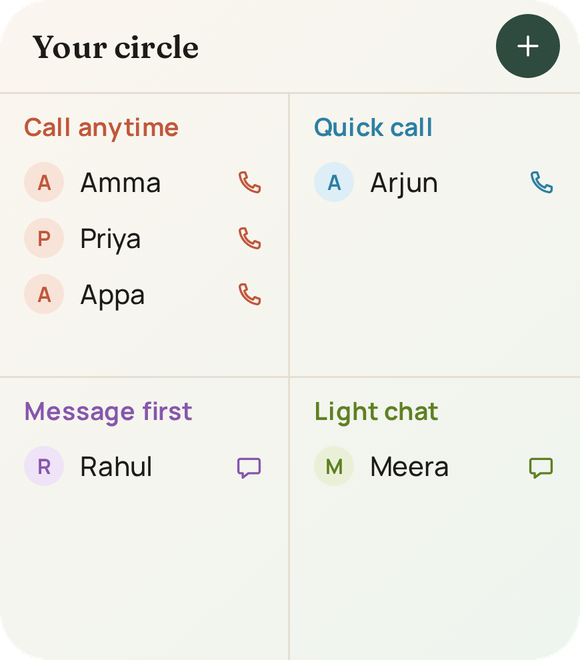
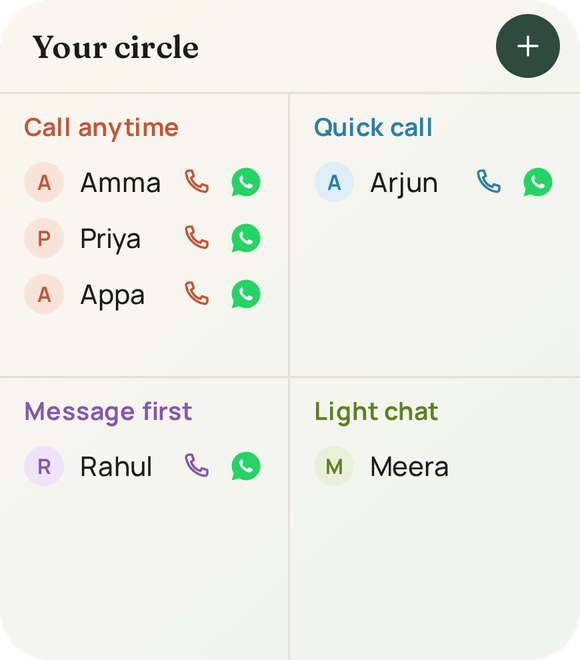
Call and WhatsApp buttons on the People circle widget
Each person with a phone number gets a call button and a WhatsApp
button (with the quadrant's opener pre-filled); tapping the name still
does the quadrant's usual action. Version 1.3.1.

Claude-Session: https://claude.ai/code/session_01CENd8nuutsrKrGoWrWpfjh

diff --git a/src/widgets/widgets.tsx b/src/widgets/widgets.tsx
@@ -13,7 +13,7 @@ import { CIRCLE } from '@/lib/circle';
 import { MOODS } from '@/lib/moods';
 import { QUADRANTS } from '@/lib/quadrants';
 import type { Snapshot } from '@/widgets/data';
-import { budSvg, doneSvg, flowerSvg, iconSvg, orbSvg, tickSvg } from '@/widgets/svg';
+import { budSvg, doneSvg, flowerSvg, iconSvg, orbSvg, tickSvg, whatsappSvg } from '@/widgets/svg';
 
 // ── Palette ──────────────────────────────────────────────────────────────────
 
@@ -610,6 +610,7 @@ export function CircleWidget({ s, p, width, height, scale = 1, checkbox = true }
   const titleH = Math.round(18 * k) + 4;
   const lineH = Math.round(28 * k);
   const dot = Math.round(20 * k);
+  const icon = Math.round(16 * k);
 
   return (
     <Grid
@@ -634,21 +635,29 @@ export function CircleWidget({ s, p, width, height, scale = 1, checkbox = true }
               <Empty text="No one yet" p={p} k={k} uri={LINK.circle} />
             ) : (
               people.slice(0, show).map((x) => (
-                <FlexWidget
-                  key={x.id}
-                  {...open(x.uri)}
-                  accessibilityLabel={`${info.mode === 'call' ? 'Call' : 'Message'} ${x.name}`}
-                  style={{ flexDirection: 'row', alignItems: 'center', height: lineH, width: 'match_parent' }}
-                >
-                  <FlexWidget style={{ height: dot, width: dot, borderRadius: dot / 2, backgroundColor: soft, alignItems: 'center', justifyContent: 'center' }}>
-                    <TextWidget text={x.name.slice(0, 1).toUpperCase()} style={{ fontSize: 10.5 * k, fontFamily: BOLD, color }} />
+                <FlexWidget key={x.id} style={{ flexDirection: 'row', alignItems: 'center', height: lineH, width: 'match_parent' }}>
+                  <FlexWidget
+                    {...open(x.uri)}
+                    accessibilityLabel={`${info.mode === 'call' ? 'Call' : 'Message'} ${x.name}`}
+                    style={{ flex: 1, flexDirection: 'row', alignItems: 'center', height: 'match_parent' }}
+                  >
+                    <FlexWidget style={{ height: dot, width: dot, borderRadius: dot / 2, backgroundColor: soft, alignItems: 'center', justifyContent: 'center' }}>
+                      <TextWidget text={x.name.slice(0, 1).toUpperCase()} style={{ fontSize: 10.5 * k, fontFamily: BOLD, color }} />
+                    </FlexWidget>
+                    <Spacer size={8} />
+                    <FlexWidget style={{ flex: 1 }}>
+                      <TextWidget text={x.name} style={{ fontSize: 13.5 * k, fontFamily: BODY, color: p.ink }} maxLines={1} truncate="END" />
+                    </FlexWidget>
                   </FlexWidget>
-                  <Spacer size={8} />
-                  <FlexWidget style={{ flex: 1 }}>
-                    <TextWidget text={x.name} style={{ fontSize: 13.5 * k, fontFamily: BODY, color: p.ink }} maxLines={1} truncate="END" />
-                  </FlexWidget>
-                  {checkbox && (
-                    <SvgWidget svg={iconSvg(info.mode === 'call' ? 'phone' : 'chat', color, Math.round(15 * k))} style={{ height: Math.round(15 * k), width: Math.round(15 * k), marginLeft: 6 }} />
+                  {checkbox && x.tel && (
+                    <FlexWidget {...open(x.tel)} accessibilityLabel={`Call ${x.name}`} style={{ paddingHorizontal: 4, height: 'match_parent', justifyContent: 'center' }}>
+                      <SvgWidget svg={iconSvg('phone', color, icon)} style={{ height: icon, width: icon }} />
+                    </FlexWidget>
+                  )}
+                  {checkbox && x.whatsapp && (
+                    <FlexWidget {...open(x.whatsapp)} accessibilityLabel={`WhatsApp ${x.name}`} style={{ paddingLeft: 4, height: 'match_parent', justifyContent: 'center' }}>
+                      <SvgWidget svg={whatsappSvg(icon + 2)} style={{ height: icon + 2, width: icon + 2 }} />
+                    </FlexWidget>
                   )}
                 </FlexWidget>
               ))

diff --git a/src/widgets/catalogue.tsx b/src/widgets/catalogue.tsx
@@ -37,7 +37,7 @@ export type WidgetSpec = {
 
 export const WIDGETS: readonly WidgetSpec[] = [
   { name: 'Matrix', title: 'Eisenhower Matrix', blurb: 'All four quadrants and their tasks. Tick tasks off right on the home screen.', width: 320, height: 330, cells: '4 × 3', render: MatrixWidget, custom: 'Matrix' },
-  { name: 'Circle', title: 'People circle', blurb: 'Your circle in four quadrants. Tap a name to call or message.', width: 320, height: 330, cells: '4 × 3', render: CircleWidget, custom: 'Circle' },
+  { name: 'Circle', title: 'People circle', blurb: 'Your circle in four quadrants. Call or WhatsApp anyone in one tap.', width: 320, height: 330, cells: '4 × 3', render: CircleWidget, custom: 'Circle' },
   { name: 'CheckIn', title: 'Mood check-in', blurb: 'Tap a mood right from your home screen. It counts as your daily check-in.', width: 320, height: 84, cells: '4 × 1', render: CheckInWidget },
   { name: 'Tasks', title: 'Focus today', blurb: 'Your most important tasks. Tick one off without opening the app.', width: 320, height: 176, cells: '4 × 2', render: TasksWidget },
   { name: 'Garden', title: 'Garden', blurb: 'Your latest flower, total blooms and the next Golden Lotus.', width: 164, height: 164, cells: '2 × 2', render: GardenWidget },

diff --git a/src/widgets/data.ts b/src/widgets/data.ts
@@ -8,6 +8,7 @@ import { dayKey, fromKey, shortDate } from '@/lib/dates';
 import { FlowerKind, flowerOf, GOLDEN_EVERY } from '@/lib/flowers';
 import { isLow, moodOf, MoodValue } from '@/lib/moods';
 import { sortOpen } from '@/lib/quadrants';
+import { cleanNumber, whatsappNumber } from '@/lib/reach';
 import type { AppState, Person, Task } from '@/lib/store';
 
 export type Snapshot = ReturnType<typeof snapshot>;
@@ -61,7 +62,13 @@ function circleCells(people: Person[]) {
     const list = people
       .filter((p) => p.quadrant === q)
       .sort((a, b) => (a.lastReachedAt ?? 0) - (b.lastReachedAt ?? 0) || a.createdAt - b.createdAt)
-      .map((p) => ({ id: p.id, name: p.name, uri: reachUri(p.phone, info.mode, info.opener) }));
+      .map((p) => ({
+        id: p.id,
+        name: p.name,
+        uri: reachUri(p.phone, info.mode, info.opener),
+        tel: p.phone ? `tel:${cleanNumber(p.phone)}` : null,
+        whatsapp: p.phone ? `https://wa.me/${whatsappNumber(p.phone)}?text=${encodeURIComponent(info.opener)}` : null,
+      }));
     return { q, mode: info.mode, people: list };
   });
 }

diff --git a/src/widgets/svg.ts b/src/widgets/svg.ts
@@ -34,6 +34,15 @@ export function orbSvg(colors: readonly [string, string], size: number, ring?: s
   );
 }
 
+/** WhatsApp-style mark: a green round speech bubble with a white handset. */
+export function whatsappSvg(size = 20): string {
+  return (
+    `<svg xmlns="http://www.w3.org/2000/svg" width="${size}" height="${size}" viewBox="0 0 24 24">` +
+    `<path d="M12 2.5a9.5 9.5 0 00-8.2 14.3L2.5 21.5l4.8-1.3A9.5 9.5 0 1012 2.5z" fill="#25D366"/>` +
+    `<path d="M8.9 7.2c.2 0 .4 0 .5.4l.7 1.7c.1.2 0 .4-.1.6l-.5.6c-.1.1-.2.3 0 .5.4.8 1 1.5 1.7 2 .5.4 1.1.7 1.6.9.2.1.4 0 .5-.1l.6-.7c.2-.2.3-.2.5-.1l1.6.8c.2.1.4.2.4.3.1.4-.1 1.2-.6 1.6-.5.5-1.4.7-2.2.5-1.4-.4-2.7-1.2-3.8-2.3-1-1-1.8-2.2-2.1-3.5-.2-.8 0-1.6.5-2.1.3-.3.5-.4.7-.4z" fill="#FFFFFF"/></svg>`
+  );
+}
+
 /** A tick circle for task rows. */
 export function tickSvg(color: string, size = 22): string {
   return `<svg xmlns="http://www.w3.org/2000/svg" width="${size}" height="${size}" viewBox="0 0 24 24"><circle cx="12" cy="12" r="9.5" fill="none" stroke="${color}" stroke-width="1.8"/></svg>`;

diff --git a/src/app/widgets.tsx b/src/app/widgets.tsx
@@ -156,7 +156,7 @@ function Customise({ name }: { name: 'Matrix' | 'Circle' }) {
         onChange={(font) => set({ font })}
       />
       <Divider />
-      {toggle(name === 'Matrix' ? 'Show checkboxes' : 'Show call and message icons', prefs.checkbox, (checkbox) => set({ checkbox }))}
+      {toggle(name === 'Matrix' ? 'Show checkboxes' : 'Show call and WhatsApp buttons', prefs.checkbox, (checkbox) => set({ checkbox }))}
       {name === 'Matrix' && toggle('Show completed tasks', prefs.completed, (completed) => set({ completed }))}
     </View>
   );

diff --git a/README.md b/README.md
@@ -43,11 +43,11 @@ One calm app where everything you do grows the same garden:
   collection, badges and the mood journal.
 
 - **Home-screen widgets (Android).** Eight widgets, each in light and dark: Eisenhower Matrix (4 × 3; all four
-  quadrants, tick tasks off in place), People circle (4 × 3; tap a name to call or message), Mood check-in (4 × 1; tap a mood to
+  quadrants, tick tasks off in place), People circle (4 × 3; tap a name to call or message, or use its call and WhatsApp buttons), Mood check-in (4 × 1; tap a mood to
   check in), Focus today (4 × 2; tick off tasks, each grows a flower), Garden (2 × 2), Focus timer (2 × 2; 15/25/50
   minute presets open the timer), Streak (2 × 1) and Reach out (4 × 1; one tap to call or message). Settings →
   Home screen widgets shows live previews and an **Add to home screen** button. The two matrix widgets have their
-  own settings there: theme (auto, light, dark), background opacity, text size, checkboxes or call icons, and
+  own settings there: theme (auto, light, dark), background opacity, text size, checkboxes or call and WhatsApp buttons, and
   whether finished tasks are listed. Built with
   [react-native-android-widget](https://github.com/sAleksovski/react-native-android-widget); the code is in
   `src/widgets/` and the widget list in the plugin entry of `app.json`. Widgets need the APK or a development
